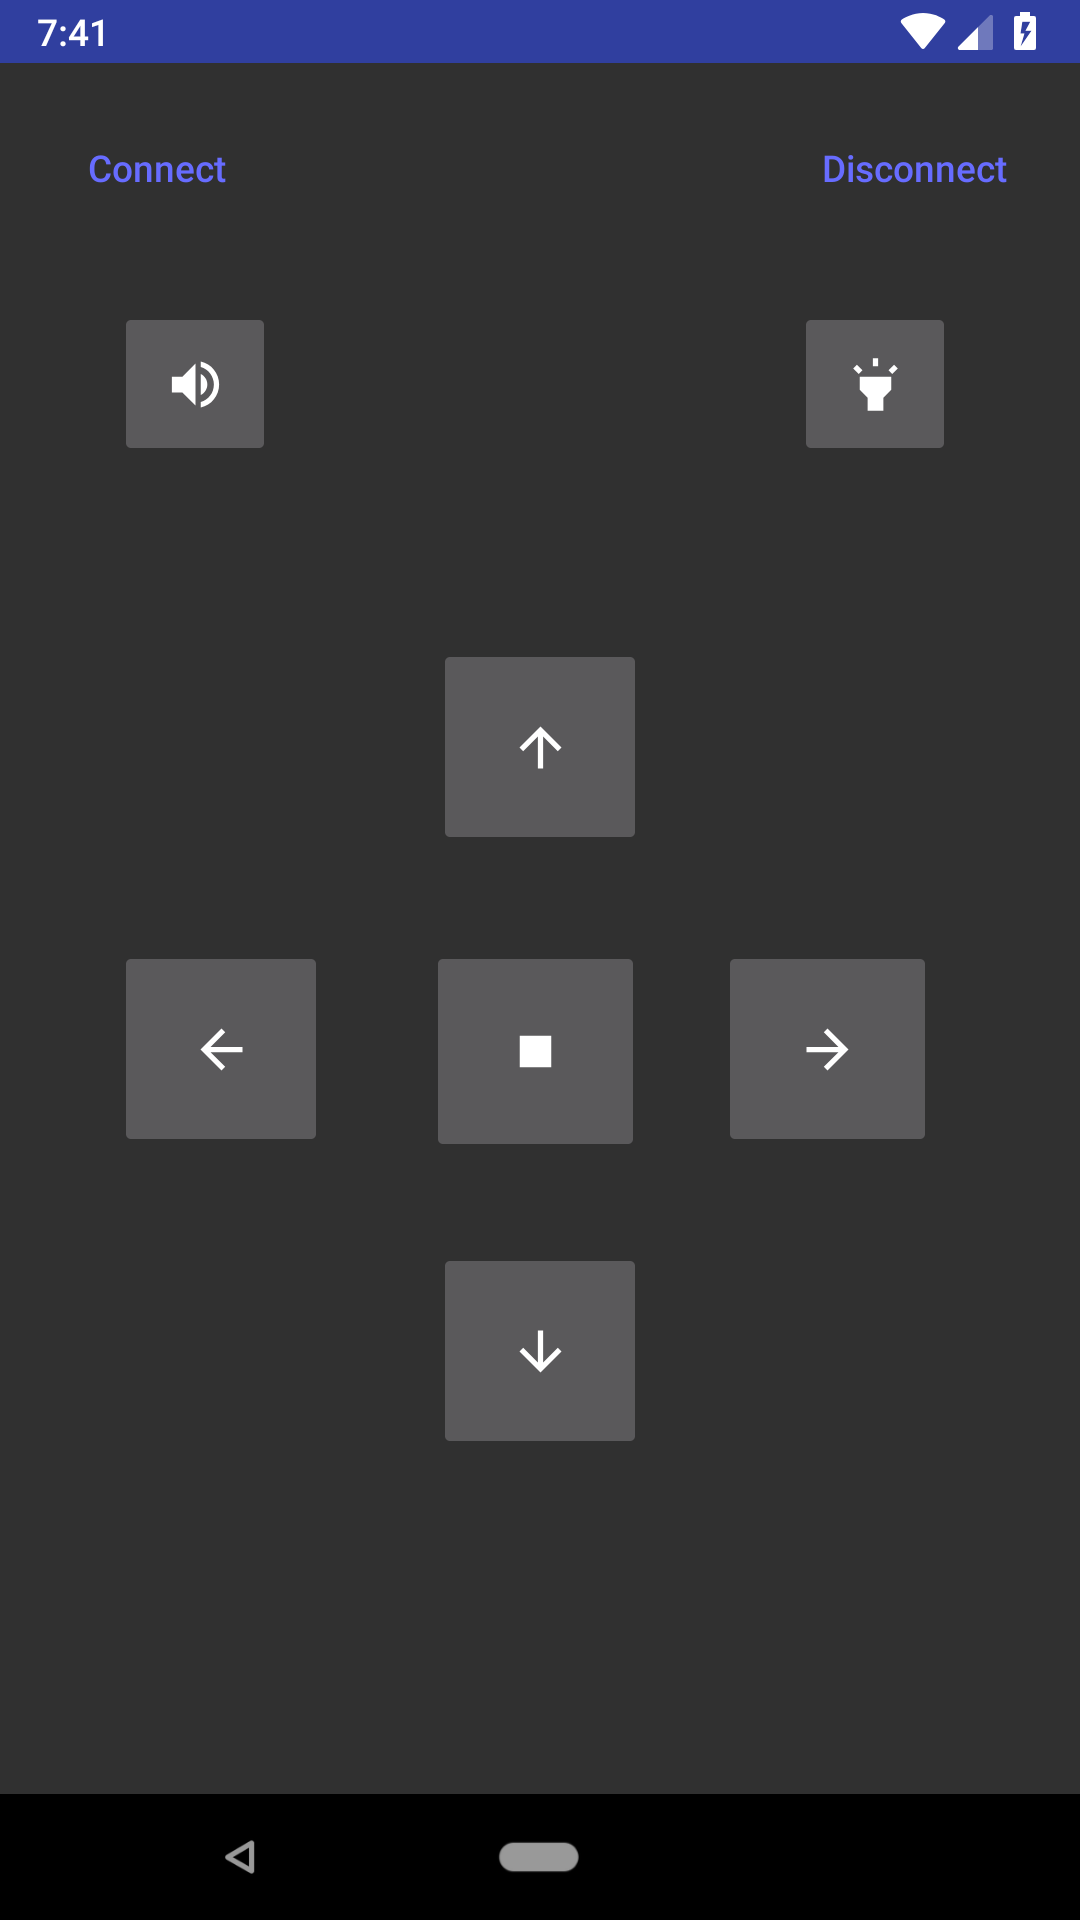
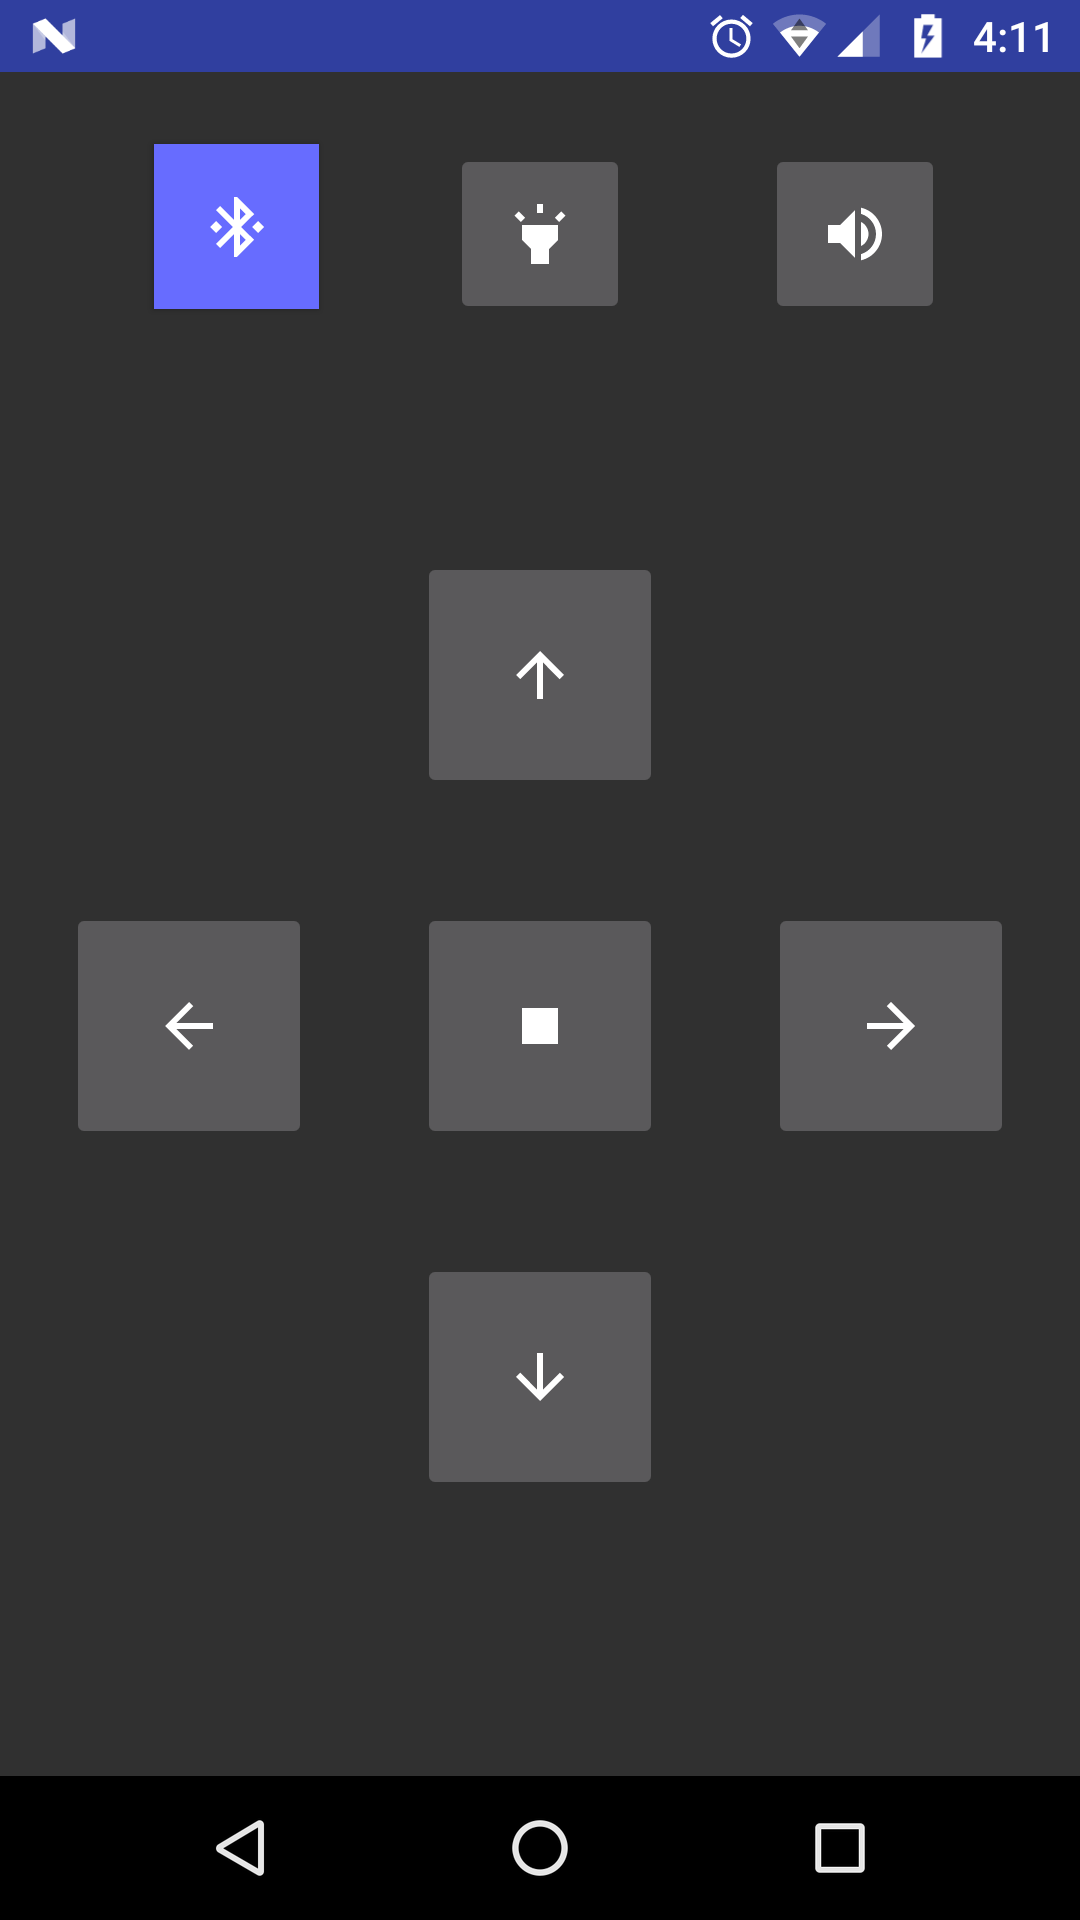
New interface

diff --git a/ControlApp/app/src/main/java/com/example/iram/controlcart/ControlActivity.java b/ControlApp/app/src/main/java/com/example/iram/controlcart/ControlActivity.java
@@ -4,12 +4,11 @@ import android.bluetooth.BluetoothAdapter;
 import android.bluetooth.BluetoothDevice;
 import android.bluetooth.BluetoothSocket;
 import android.content.Intent;
+import android.graphics.Color;
 import android.os.Handler;
 import android.support.v7.app.AppCompatActivity;
 import android.os.Bundle;
-import android.util.Log;
 import android.view.View;
-import android.widget.Button;
 import android.widget.ImageView;
 import android.widget.Toast;
 
@@ -34,14 +33,12 @@ public class ControlActivity extends AppCompatActivity implements View.OnClickLi
     boolean deviceConnected=false;
     int REQUEST_ENABLE_BT = 1;
     BluetoothAdapter mBluetoothAdapter = BluetoothAdapter.getDefaultAdapter();
-    Button btnConnect, btnDisconnect;
-    ImageView ibUp, ibLeft, ibRight, ibDown, ibBuzzer, ibLeds, ibStop;
+    ImageView ibUp, ibLeft, ibRight, ibDown, ibBuzzer, ibLeds, ibStop, ibConnect;
     @Override
     protected void onCreate(Bundle savedInstanceState) {
         super.onCreate(savedInstanceState);
         setContentView(R.layout.activity_control);
-        btnConnect=findViewById(R.id.btnConnect);
-        btnDisconnect=findViewById(R.id.btnDisconnect);
+        ibConnect=findViewById(R.id.ibConnect);
         ibBuzzer=findViewById(R.id.ibBuzzer);
         ibLeds=findViewById(R.id.ibLeds);
         ibStop=findViewById(R.id.ibStop);
@@ -55,8 +52,7 @@ public class ControlActivity extends AppCompatActivity implements View.OnClickLi
             // Device does not support Bluetooth
             Toast.makeText(this, "The devicie doesn't support bluetooth", Toast.LENGTH_SHORT).show();
         }
-        btnConnect.setOnClickListener(this);
-        btnDisconnect.setOnClickListener(this);
+        ibConnect.setOnClickListener(this);
         ibBuzzer.setOnClickListener(this);
         ibLeds.setOnClickListener(this);
         ibStop.setOnClickListener(this);
@@ -68,34 +64,38 @@ public class ControlActivity extends AppCompatActivity implements View.OnClickLi
 
     @Override
     public void onClick(View view) {
-        switch (view.getId()){
-            case R.id.btnConnect:
-                if(BTinit()){
-                    if(BTconnect()){
-                        deviceConnected=true;
-                        beginListenForData();
+        switch (view.getId()) {
+            case R.id.ibConnect:
+                if (deviceConnected) {
+                    stopThread = true;
+                    try {
+                        outputStream.close();
+                    } catch (IOException e) {
+                        e.printStackTrace();
                     }
-
+                    try {
+                        inputStream.close();
+                    } catch (IOException e) {
+                        e.printStackTrace();
+                    }
+                    try {
+                        socket.close();
+                    } catch (IOException e) {
+                        e.printStackTrace();
+                    }
+                    deviceConnected = false;
+                    ibConnect.setImageResource(R.drawable.connect);
+                    ibConnect.setBackgroundResource(R.color.colorAccent);
+                }else{
+                    if (BTinit()){
+                        if (BTconnect()) {
+                            deviceConnected = true;
+                            beginListenForData();
+                            ibConnect.setImageResource(R.drawable.disconnect);
+                            ibConnect.setBackgroundColor(Color.RED);
+                        }
+                    }
                 }
-                break;
-            case R.id.btnDisconnect:
-                stopThread = true;
-                try {
-                    outputStream.close();
-                } catch (IOException e) {
-                    e.printStackTrace();
-                }
-                try {
-                    inputStream.close();
-                } catch (IOException e) {
-                    e.printStackTrace();
-                }
-                try {
-                    socket.close();
-                } catch (IOException e) {
-                    e.printStackTrace();
-                }
-                deviceConnected=false;
                 break;
             case R.id.ibUp:
                 message="a";
@@ -151,7 +151,7 @@ public class ControlActivity extends AppCompatActivity implements View.OnClickLi
                 }
                 break;
             case R.id.ibLeds:
-                if (statusBuzzer){
+                if (statusLed){
                     message= "w";
                 }else {
                     message = "q";
@@ -165,18 +165,16 @@ public class ControlActivity extends AppCompatActivity implements View.OnClickLi
                 break;
         }
     }
-    public boolean BTconnect()
-    {
+    public boolean BTconnect(){
         boolean connected=true;
-        try {
+        try{
             socket = device.createRfcommSocketToServiceRecord(PORT_UUID);
             socket.connect();
         } catch (IOException e) {
             e.printStackTrace();
             connected=false;
         }
-        if(connected)
-        {
+        if(connected){
             try {
                 outputStream=socket.getOutputStream();
             } catch (IOException e) {
@@ -191,15 +189,13 @@ public class ControlActivity extends AppCompatActivity implements View.OnClickLi
         }
         return connected;
     }
-    public boolean BTinit()
-    {
+    public boolean BTinit() {
         boolean found=false;
         BluetoothAdapter bluetoothAdapter=BluetoothAdapter.getDefaultAdapter();
         if (bluetoothAdapter == null) {
             Toast.makeText(getApplicationContext(),"Device doesnt Support Bluetooth",Toast.LENGTH_SHORT).show();
         }
-        if(!bluetoothAdapter.isEnabled())
-        {
+        if(!bluetoothAdapter.isEnabled()) {
             Intent enableAdapter = new Intent(BluetoothAdapter.ACTION_REQUEST_ENABLE);
             startActivityForResult(enableAdapter, 0);
             try {
@@ -236,9 +232,8 @@ public class ControlActivity extends AppCompatActivity implements View.OnClickLi
                             byte[] rawBytes = new byte[byteCount];
                             inputStream.read(rawBytes);
                             final String string=new String(rawBytes,"UTF-8");
-                            handler.post(new Runnable() {
-                                public void run()
-                                {
+                            handler.post(new Runnable(){
+                                public void run(){
                                 }
                             });
 
